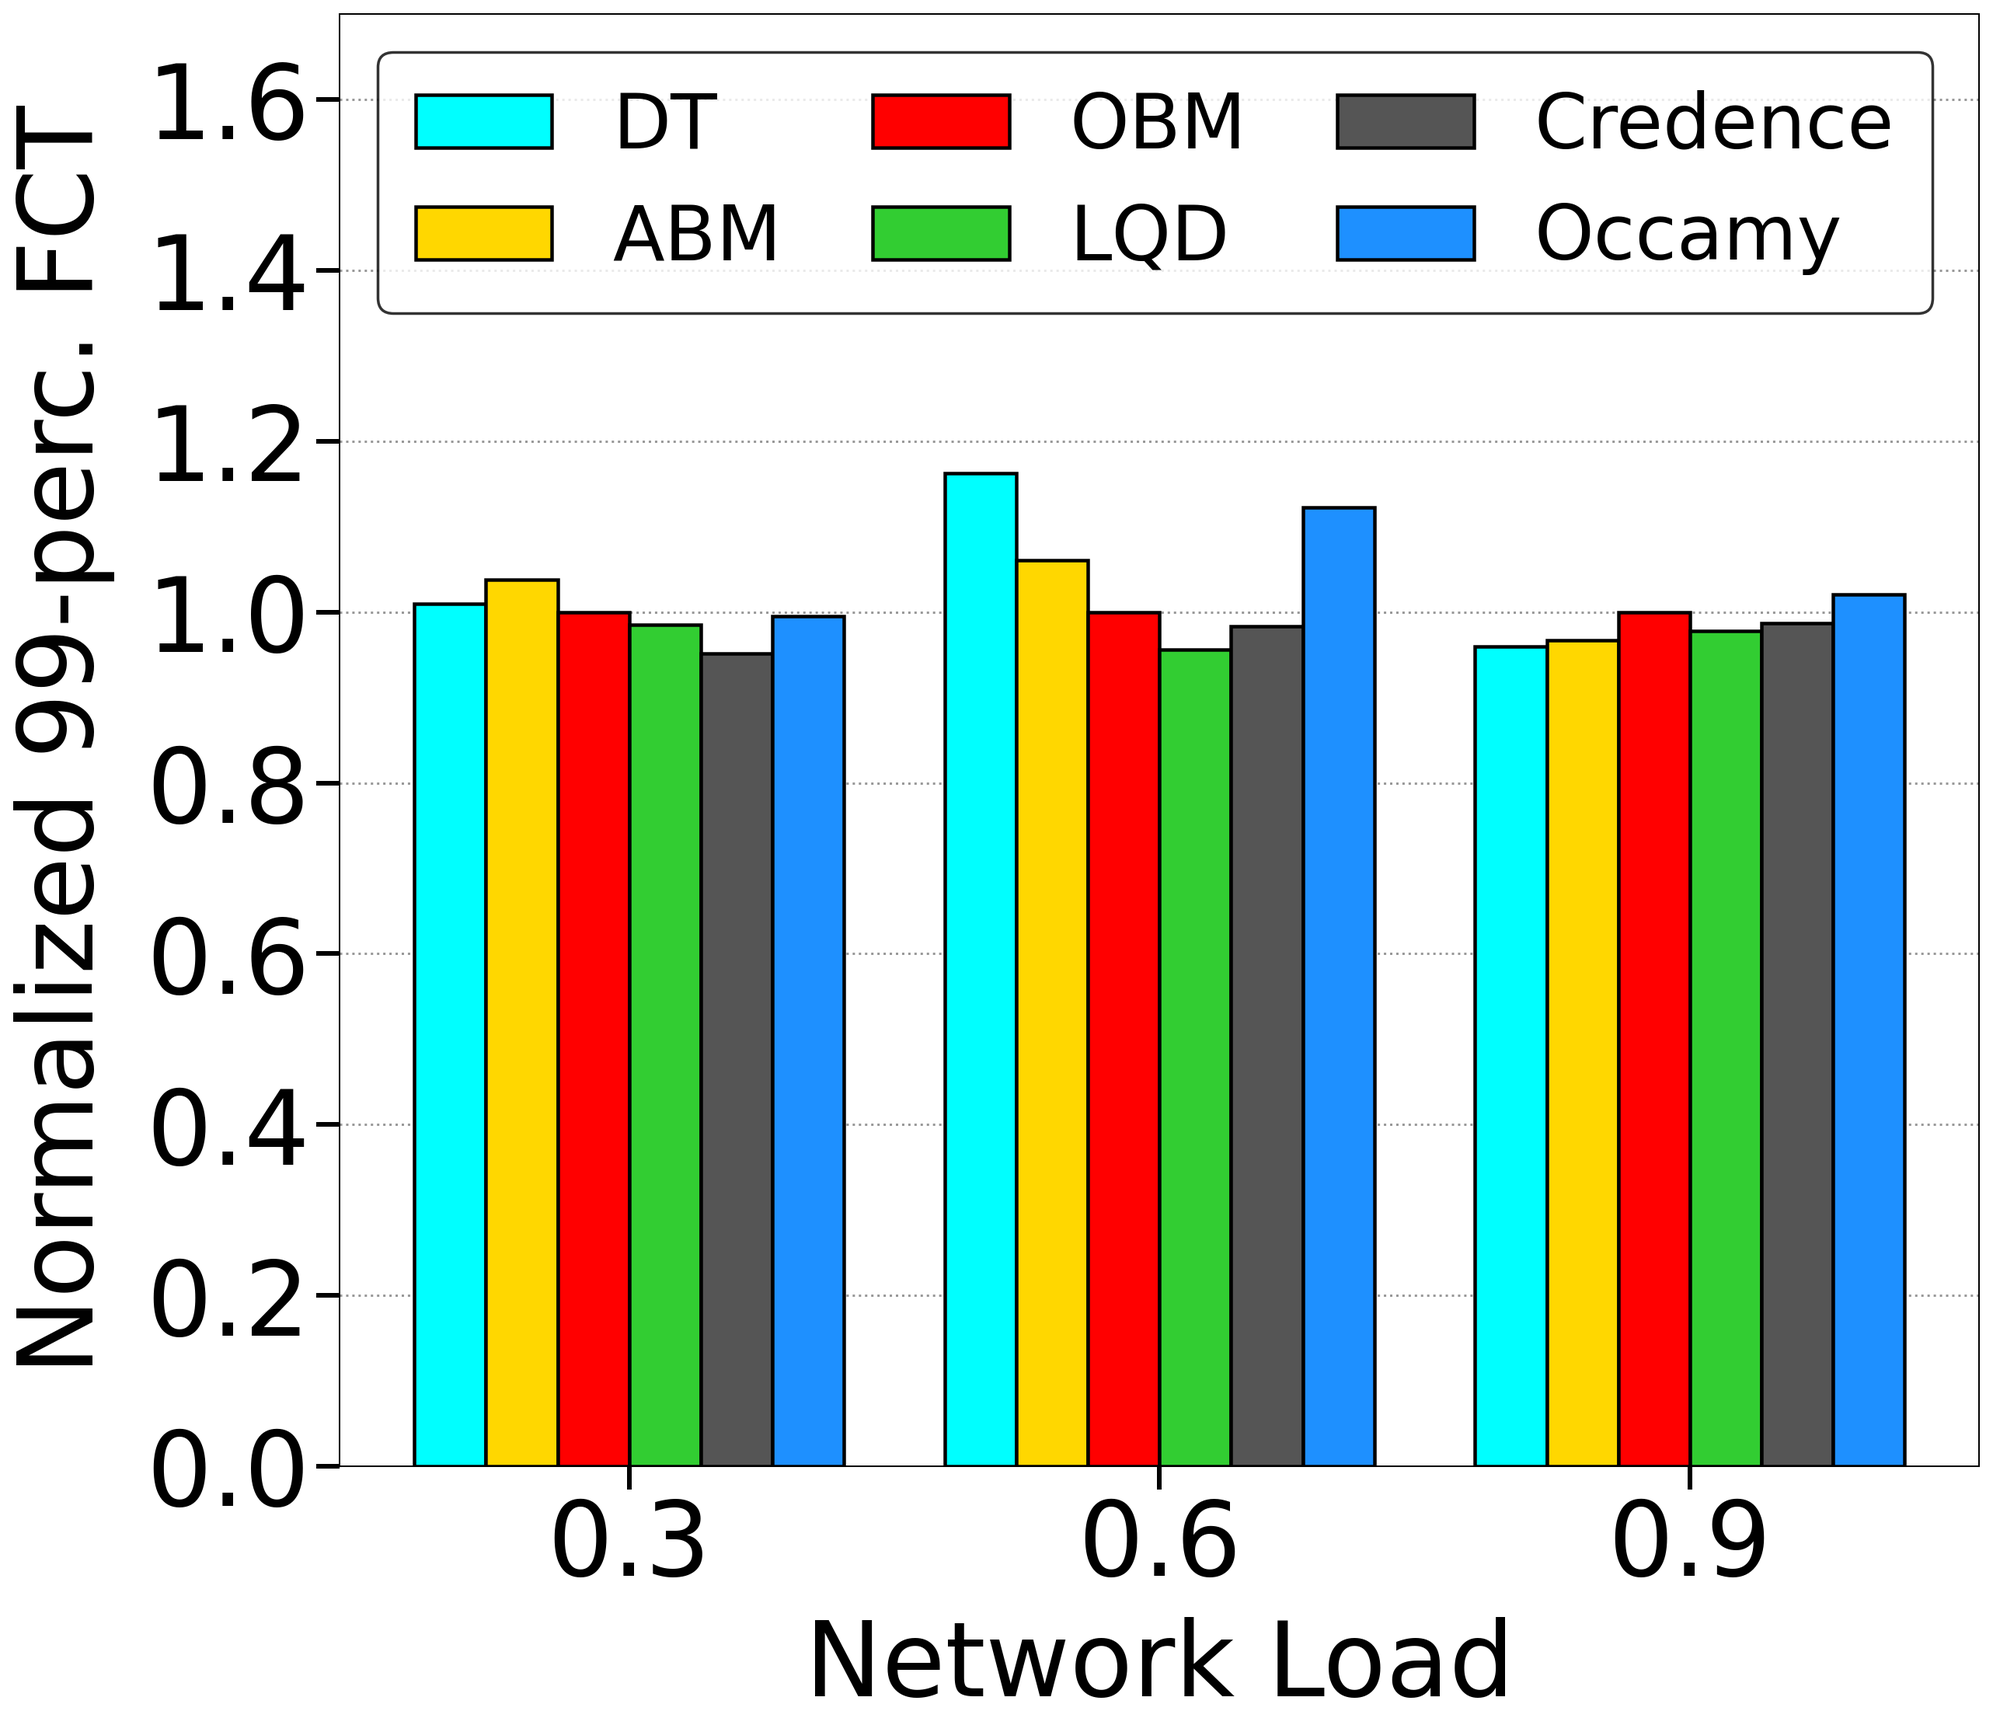
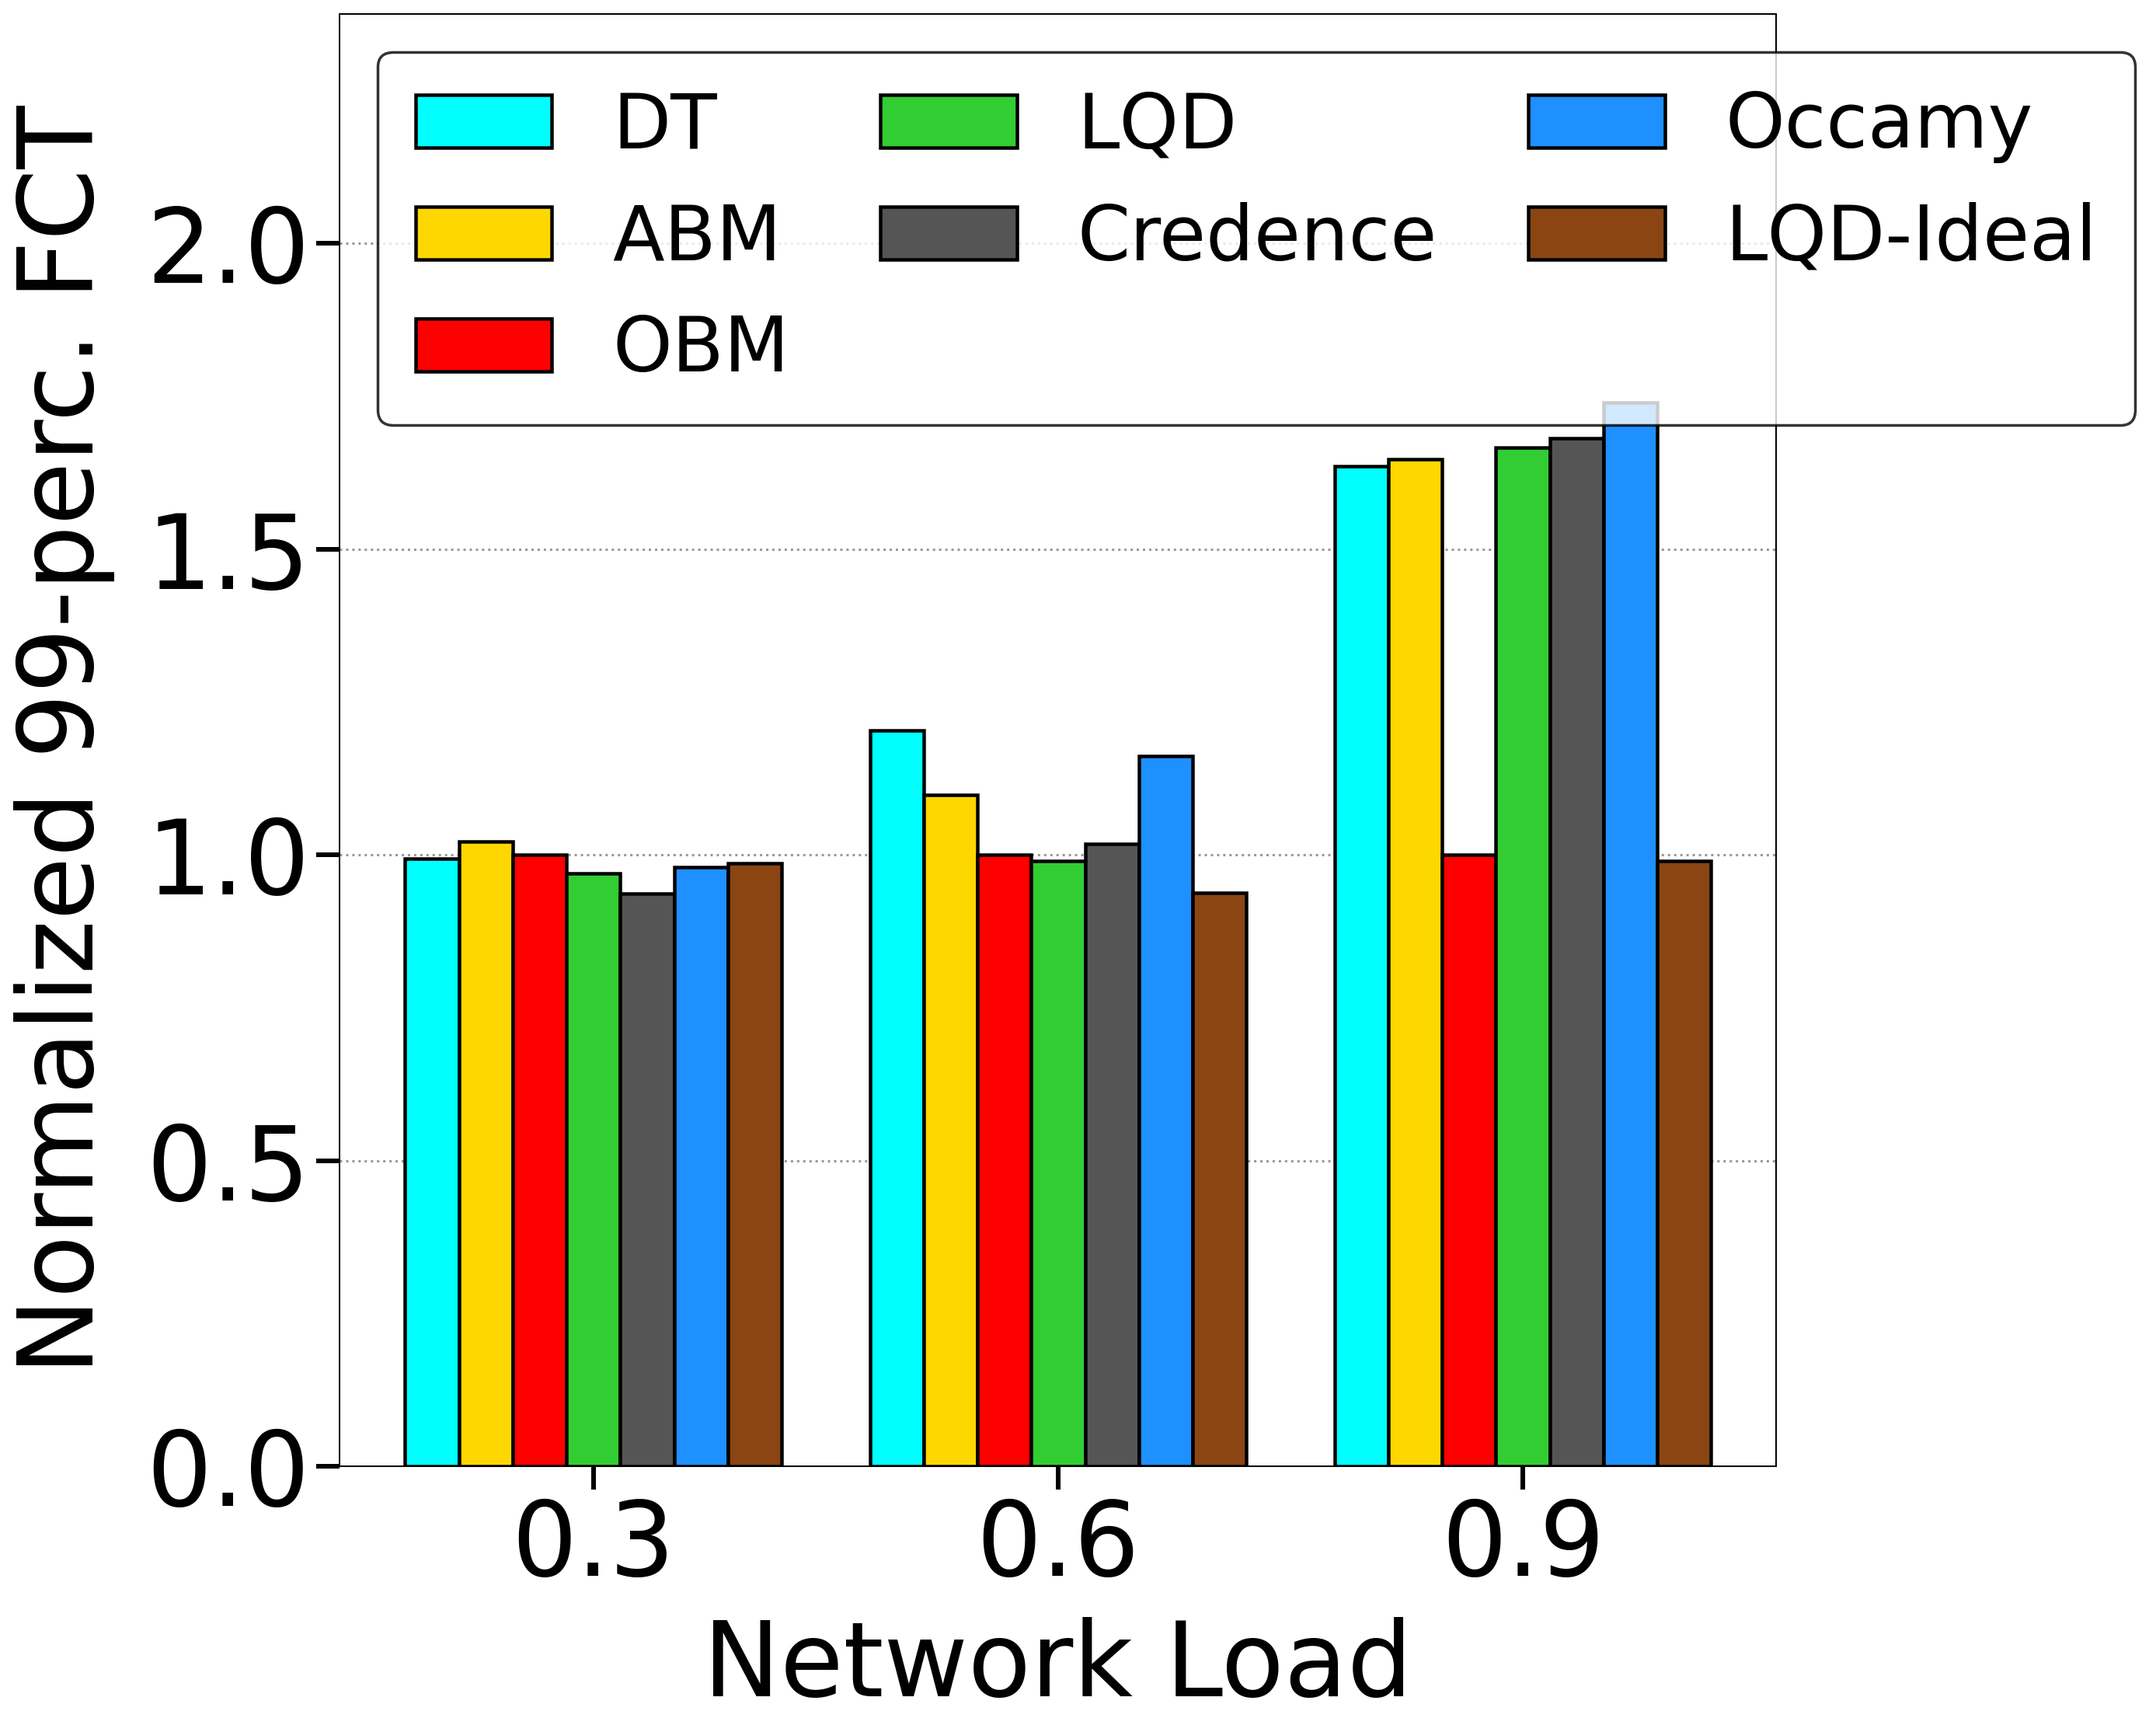
final graph for websearch --need to change aesthetics

diff --git a/obm-sim/plot_fct.py b/obm-sim/plot_fct.py
@@ -39,10 +39,11 @@ ALGO_META = {
     "lqd":      ("LQD",      "#32CD32"),
     "credence": ("Credence", "#555555"),
     "occamy":   ("Occamy",   "#1E90FF"), # Added Occamy (Blue)
+    "lqd-ideal": ("LQD-Ideal", "#8B4513")
 }
 
 # Added Occamy to the ordering
-ORDERED_LABELS = ["DT", "ABM", "OBM", "LQD", "Credence", "Occamy"]
+ORDERED_LABELS = ["DT", "ABM", "OBM", "LQD", "Credence", "Occamy", "LQD-Ideal"]
 BASELINE_LABEL = "OBM"  # normalization reference (must match an ORDERED_LABELS item)
 
 DATASET_XLABEL = {"incast": "Incast Degree", "websearch": "Network Load"}
@@ -255,7 +256,7 @@ def main():
     # Updated default list to include stats_occamy.txt
     ap.add_argument("--files", nargs="*", default=[
         "stats_dt.txt", "stats_abm.txt", "stats_obm.txt", "stats_lqd.txt", 
-        "stats_credence.txt", "stats_occamy.txt"
+        "stats_credence.txt", "stats_occamy.txt", "stats_lqd_ideal.txt"
     ], help="Paths to stats files (any order).")
     ap.add_argument("--outdir", default=".", help="Where to write PNGs.")
     ap.add_argument("--dpi", type=int, default=180,
@@ -272,6 +273,7 @@ def main():
             if   "dt"       in base: algo_key = "dt"
             elif "abm"      in base: algo_key = "abm"
             elif "obm"      in base: algo_key = "obm"
+            elif "lqd_ideal" in base: algo_key = "lqd-ideal"
             elif "lqd"      in base: algo_key = "lqd"
             elif "credence" in base: algo_key = "credence"
             # Added detection for Occamy
